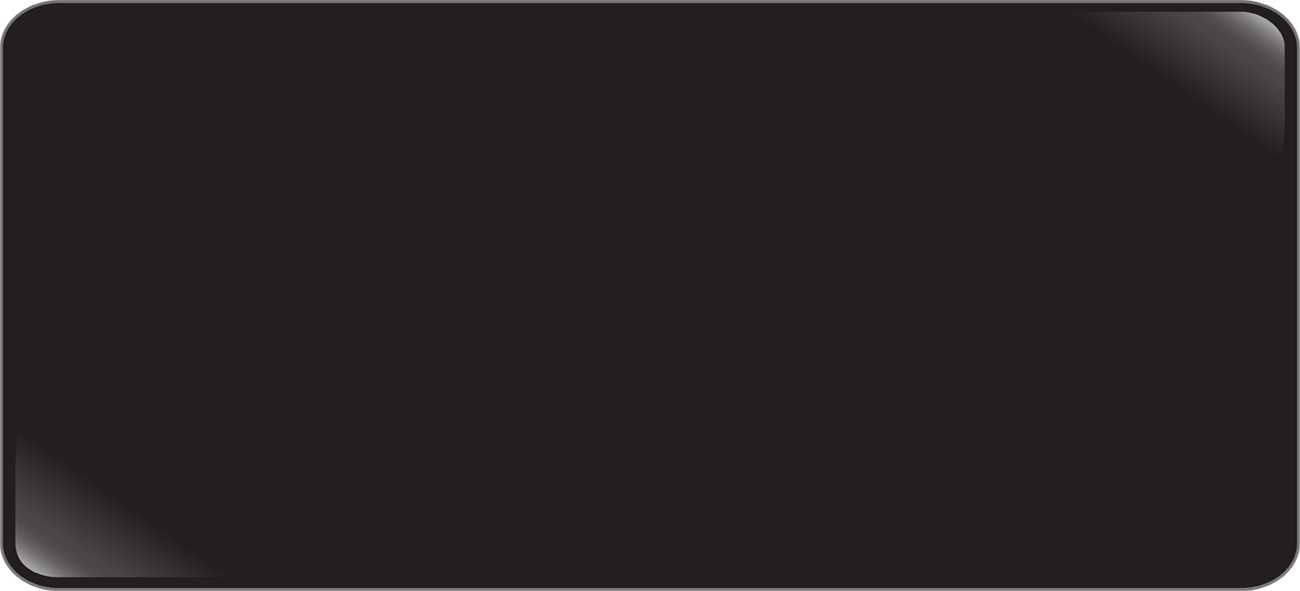
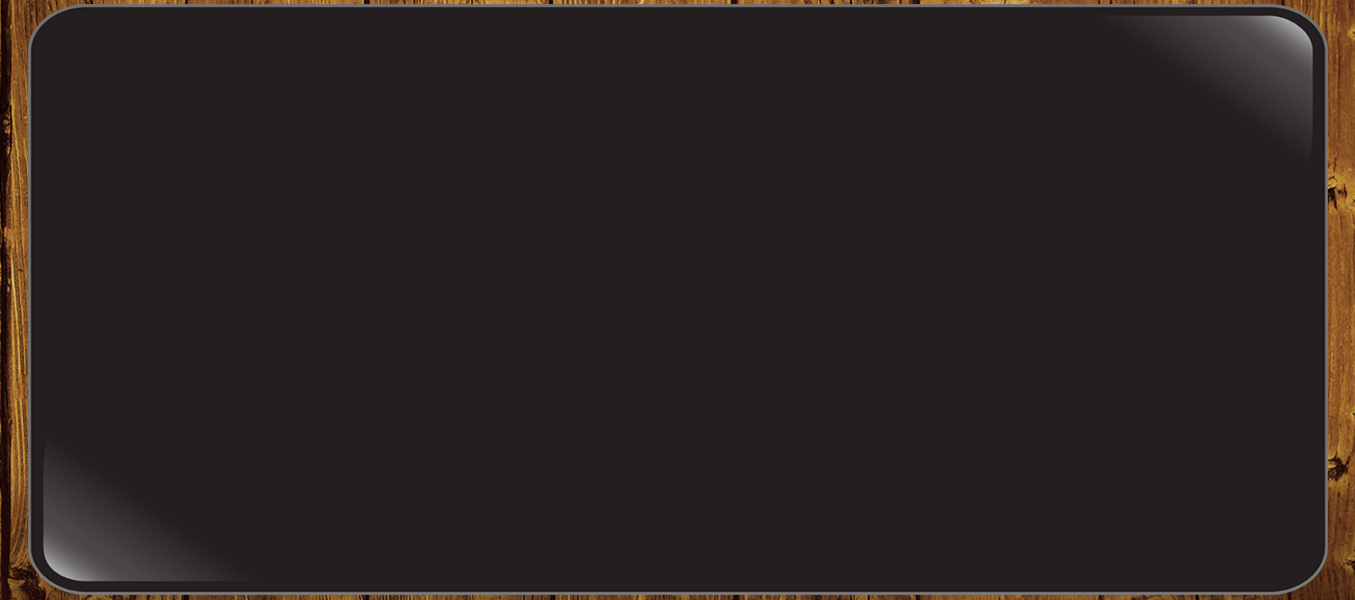
Interfáz de madera puuuutamaaadre!!

Changed region(s): [[0.0, 0.0, 1.0, 1.0]]

diff --git a/ProyectoInicial/src/vista/PantallaInicio.java b/ProyectoInicial/src/vista/PantallaInicio.java
@@ -13,18 +13,20 @@ public class PantallaInicio extends JPanel {
 
 	public PantallaInicio() {
 		setLayout(null);
-		setBounds(0, 105, 1355, 591);
+		setBounds(0, 0, 1355, 600);
 				
 		
-		//IMAGEN DE FONDO
-		JLabel imgFondo = new JLabel("/Fondo.png");
-
+		//IMAGEN DE FONDO	
 		Image iFondo = new ImageIcon(this.getClass().getResource("/Fondo.png")).getImage();
+		JLabel imgFondo = new JLabel("/Fondo.png");
+		imgFondo.setBounds(0, 0, 1355, 605);
+		imgFondo.setIcon(new ImageIcon(iFondo));
+		this.add(imgFondo);
 		
-		JLabel lblBienvenido = new JLabel("\u00A1Bienvenido a GAME QUIZ!");
+		JLabel lblBienvenido = new JLabel("\u00A1Bienvenidos a GAME QUIZ!");
 		lblBienvenido.setFont(new Font("BatangChe", Font.BOLD, 32));
 		lblBienvenido.setForeground(Color.WHITE);
-		lblBienvenido.setBounds(448, 38, 458, 76);
+		lblBienvenido.setBounds(448, 38, 475, 76);
 		add(lblBienvenido);
 		
 		JLabel lblHistoria = new JLabel(">Historia...........Estudia las principales d\u00E9cadas de la Historia de  los Videojuegos.");
@@ -64,7 +66,7 @@ public class PantallaInicio extends JPanel {
 		JSeparator separator_1 = new JSeparator();
 		separator_1.setBounds(188, 136, 1019, 11);
 		add(separator_1);
-		imgFondo.setBounds(27, 0, 1300, 591);
+		imgFondo.setBounds(0, 0, 1355, 600);
 		imgFondo.setIcon(new ImageIcon(iFondo));
 		this.add(imgFondo);
 		

diff --git a/ProyectoInicial/src/vista/PantallaPrincipal.java b/ProyectoInicial/src/vista/PantallaPrincipal.java
@@ -39,7 +39,7 @@ public class PantallaPrincipal extends JFrame {
 		contentPane.setLayout(null);
 		
 		// JPanel para las pantallas
-		panelPantallas.setBounds(0, 105, 1355, 591);
+		panelPantallas.setBounds(0, 105, 1355, 605);
 		contentPane.add(panelPantallas);
 		this.setResizable(false);
 		panelPantallas.setLayout(new CardLayout(0, 0));
@@ -100,8 +100,8 @@ public class PantallaPrincipal extends JFrame {
 			}
 		});
 		
-		Image imgHeader = new ImageIcon(this.getClass().getResource("/MuroPiedras.png")).getImage();
-		btnInicio.setBounds(150, 10, 150, 75);
+		Image imgHeader = new ImageIcon(this.getClass().getResource("/MuroMaderas.png")).getImage();
+		btnInicio.setBounds(150, 10, 150, 80);
 		panelBotones.add(btnInicio);
 		
 		//Boton Historia
@@ -208,13 +208,13 @@ public class PantallaPrincipal extends JFrame {
 		
 		//MARCO BAJO BOTONES SOBRE PANTALLA
 		JPanel panel = new JPanel();
-		panel.setBounds(0, 84, 1355, 23);
+		panel.setBounds(0, 84, 1355, 30);
 		contentPane.add(panel);
 		panel.setLayout(null);
 		
 		Image imgBar = new ImageIcon(this.getClass().getResource("/bar.png")).getImage();
 		JLabel label = new JLabel("");
-		label.setBounds(0, 0, 1355, 23);
+		label.setBounds(0, 0, 1355, 30);
 		label.setIcon(new ImageIcon(imgBar));
 		panel.add(label);
 	

diff --git a/ProyectoInicial/src/vista/PantallaHistoria.java b/ProyectoInicial/src/vista/PantallaHistoria.java
@@ -17,7 +17,7 @@ public class PantallaHistoria extends JPanel {
 	public PantallaHistoria() {
 
 		setLayout(null);
-		setBounds(0, 105, 1355, 591);
+		setBounds(0, 0, 1355, 600);
 		
 		//Letras
 		Image iLetrasHistoria = new ImageIcon(this.getClass().getResource("/LetrasHistoria.png")).getImage();
@@ -88,7 +88,7 @@ public class PantallaHistoria extends JPanel {
 		//IMAGEN DE FONDO
 		Image iFondo = new ImageIcon(this.getClass().getResource("/Fondo.png")).getImage();
 		JLabel imgFondo = new JLabel("/Fondo.png");
-		imgFondo.setBounds(27, 0, 1600, 591);
+		imgFondo.setBounds(0, 0, 1355, 600);
 		imgFondo.setIcon(new ImageIcon(iFondo));
 		this.add(imgFondo);
 		

diff --git a/ProyectoInicial/src/vista/PantallaConsolas.java b/ProyectoInicial/src/vista/PantallaConsolas.java
@@ -15,7 +15,7 @@ public class PantallaConsolas extends JPanel {
 		//IMAGEN DE FONDO
 		Image iFondo = new ImageIcon(this.getClass().getResource("/Fondo.png")).getImage();
 		JLabel imgFondo = new JLabel("/Fondo.png");
-		imgFondo.setBounds(27, 0, 1600, 591);
+		imgFondo.setBounds(0, 0, 1355, 600);
 		imgFondo.setIcon(new ImageIcon(iFondo));
 		this.add(imgFondo);
 

diff --git a/ProyectoInicial/src/vista/PantallaOpciones.java b/ProyectoInicial/src/vista/PantallaOpciones.java
@@ -17,7 +17,7 @@ public class PantallaOpciones extends JPanel {
 		//IMAGEN DE FONDO
 		Image iFondo = new ImageIcon(this.getClass().getResource("/Fondo.png")).getImage();
 		JLabel imgFondo = new JLabel("/Fondo.png");
-		imgFondo.setBounds(27, 0, 1600, 591);
+		imgFondo.setBounds(0, 0, 1355, 600);
 		imgFondo.setIcon(new ImageIcon(iFondo));
 		this.add(imgFondo);
 

diff --git a/ProyectoInicial/src/vista/PantallaJuegos.java b/ProyectoInicial/src/vista/PantallaJuegos.java
@@ -16,7 +16,7 @@ public class PantallaJuegos extends JPanel {
 		//IMAGEN DE FONDO
 		Image iFondo = new ImageIcon(this.getClass().getResource("/Fondo.png")).getImage();
 		JLabel imgFondo = new JLabel("/Fondo.png");
-		imgFondo.setBounds(27, 0, 1300, 591);
+		imgFondo.setBounds(0, 0, 1355, 600);
 		imgFondo.setIcon(new ImageIcon(iFondo));
 		this.add(imgFondo);
 

diff --git a/ProyectoInicial/src/vista/PantallaQuiz.java b/ProyectoInicial/src/vista/PantallaQuiz.java
@@ -17,7 +17,7 @@ public class PantallaQuiz extends JPanel {
 		//IMAGEN DE FONDO
 		Image iFondo = new ImageIcon(this.getClass().getResource("/Fondo.png")).getImage();
 		JLabel imgFondo = new JLabel("/Fondo.png");	
-		imgFondo.setBounds(27, 0, 1600, 591);;
+		imgFondo.setBounds(0, 0, 1355, 600);
 		imgFondo.setIcon(new ImageIcon(iFondo));
 		this.add(imgFondo);
 

diff --git a/ProyectoInicial/src/vista/Decada00.java b/ProyectoInicial/src/vista/Decada00.java
@@ -70,7 +70,7 @@ public class Decada00 extends JPanel {
 		//IMAGEN DE FONDO
 		Image iFondo = new ImageIcon(this.getClass().getResource("/Fondo.png")).getImage();
 		JLabel imgFondo = new JLabel("/Fondo.png");
-		imgFondo.setBounds(27, 0, 1600, 591);
+		imgFondo.setBounds(0, 0, 1355, 600);
 		imgFondo.setIcon(new ImageIcon(iFondo));
 		this.add(imgFondo);
 		

diff --git a/ProyectoInicial/src/vista/Decada10.java b/ProyectoInicial/src/vista/Decada10.java
@@ -68,7 +68,7 @@ public class Decada10 extends JPanel {
 		//IMAGEN DE FONDO
 		Image iFondo = new ImageIcon(this.getClass().getResource("/Fondo.png")).getImage();
 		JLabel imgFondo = new JLabel("/Fondo.png");
-		imgFondo.setBounds(27, 0, 1600, 591);
+		imgFondo.setBounds(0, 0, 1355, 600);
 		imgFondo.setIcon(new ImageIcon(iFondo));
 		this.add(imgFondo);
 		

diff --git a/ProyectoInicial/src/vista/Decada70.java b/ProyectoInicial/src/vista/Decada70.java
@@ -69,7 +69,7 @@ public class Decada70 extends JPanel {
 		//IMAGEN DE FONDO
 		Image iFondo = new ImageIcon(this.getClass().getResource("/Fondo.png")).getImage();
 		JLabel imgFondo = new JLabel("/Fondo.png");
-		imgFondo.setBounds(27, 0, 1600, 591);
+		imgFondo.setBounds(0, 0, 1355, 600);
 		imgFondo.setIcon(new ImageIcon(iFondo));
 		this.add(imgFondo);
 		

diff --git a/ProyectoInicial/src/vista/Decada80.java b/ProyectoInicial/src/vista/Decada80.java
@@ -69,7 +69,7 @@ public class Decada80 extends JPanel {
 		//IMAGEN DE FONDO
 		Image iFondo = new ImageIcon(this.getClass().getResource("/Fondo.png")).getImage();
 		JLabel imgFondo = new JLabel("/Fondo.png");
-		imgFondo.setBounds(27, 0, 1600, 591);
+		imgFondo.setBounds(0, 0, 1355, 600);
 		imgFondo.setIcon(new ImageIcon(iFondo));
 		this.add(imgFondo);
 		

diff --git a/ProyectoInicial/src/vista/Decada90.java b/ProyectoInicial/src/vista/Decada90.java
@@ -69,7 +69,7 @@ public class Decada90 extends JPanel {
 		//IMAGEN DE FONDO
 		Image iFondo = new ImageIcon(this.getClass().getResource("/Fondo.png")).getImage();
 		JLabel imgFondo = new JLabel("/Fondo.png");
-		imgFondo.setBounds(27, 0, 1600, 591);
+		imgFondo.setBounds(0, 0, 1355, 600);
 		imgFondo.setIcon(new ImageIcon(iFondo));
 		this.add(imgFondo);
 		
